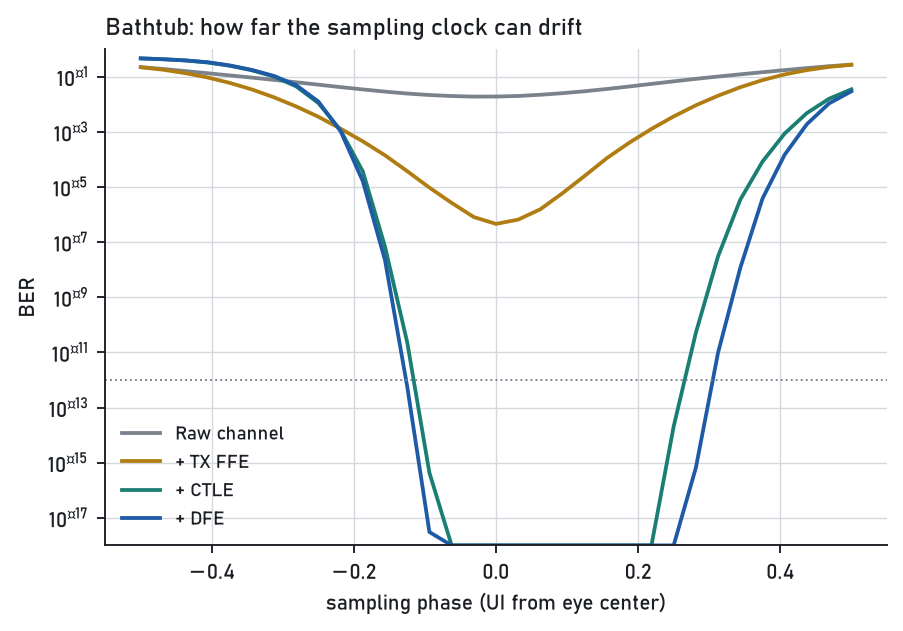
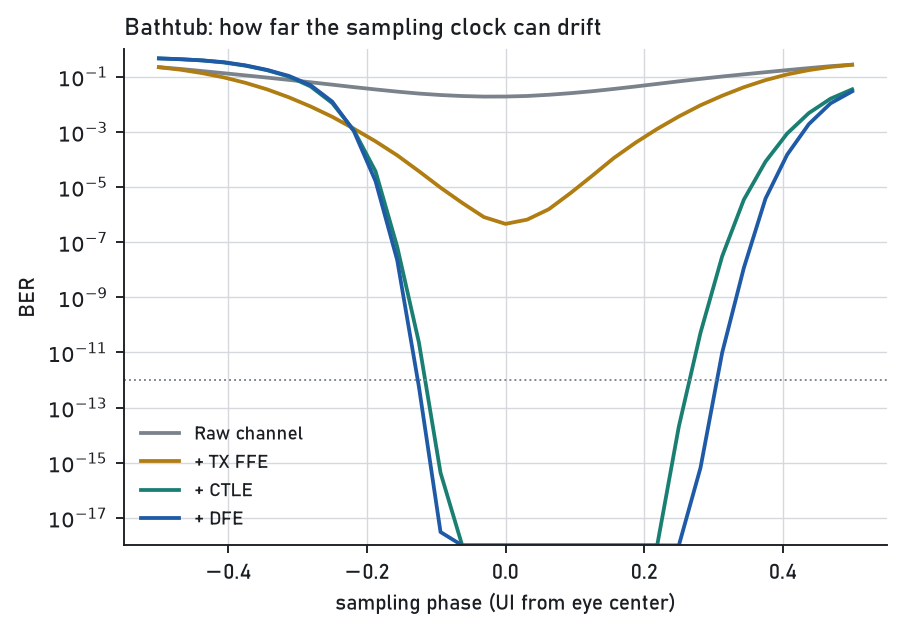
fix log axis minus

diff --git a/scripts/run_link.py b/scripts/run_link.py
@@ -236,6 +236,7 @@ def main():
     ax.set_ylim(1e-18, 1); ax.set_xlabel("sampling phase (UI from eye center)"); ax.set_ylabel("BER")
     ax.set_title("Bathtub: how far the sampling clock can drift", loc="left")
     ax.legend()
+    ax.tick_params(axis="y", which="both", labelfontfamily="DejaVu Sans")
     fig.savefig(IMG_DIR / "bathtub.png"); plt.close(fig)
 
     taps, taps_hist, cursors = dfe_info
@@ -286,6 +287,7 @@ def main():
     slope = np.polyfit(np.arange(2000, 4000 - 2), phase_ui[2000:], 1)[0]
     axes[1].set_xlabel("bits"); axes[1].set_ylabel("phase correction (UI)")
     axes[1].set_title(f"CDR tracks a 200 ppm offset ({slope*1e6:.0f} ppm recovered)", loc="left")
+    axes[0].tick_params(which="both", labelfontfamily="DejaVu Sans")
     fig.savefig(IMG_DIR / "jtol_and_lock.png"); plt.close(fig)
 
     summary = {
